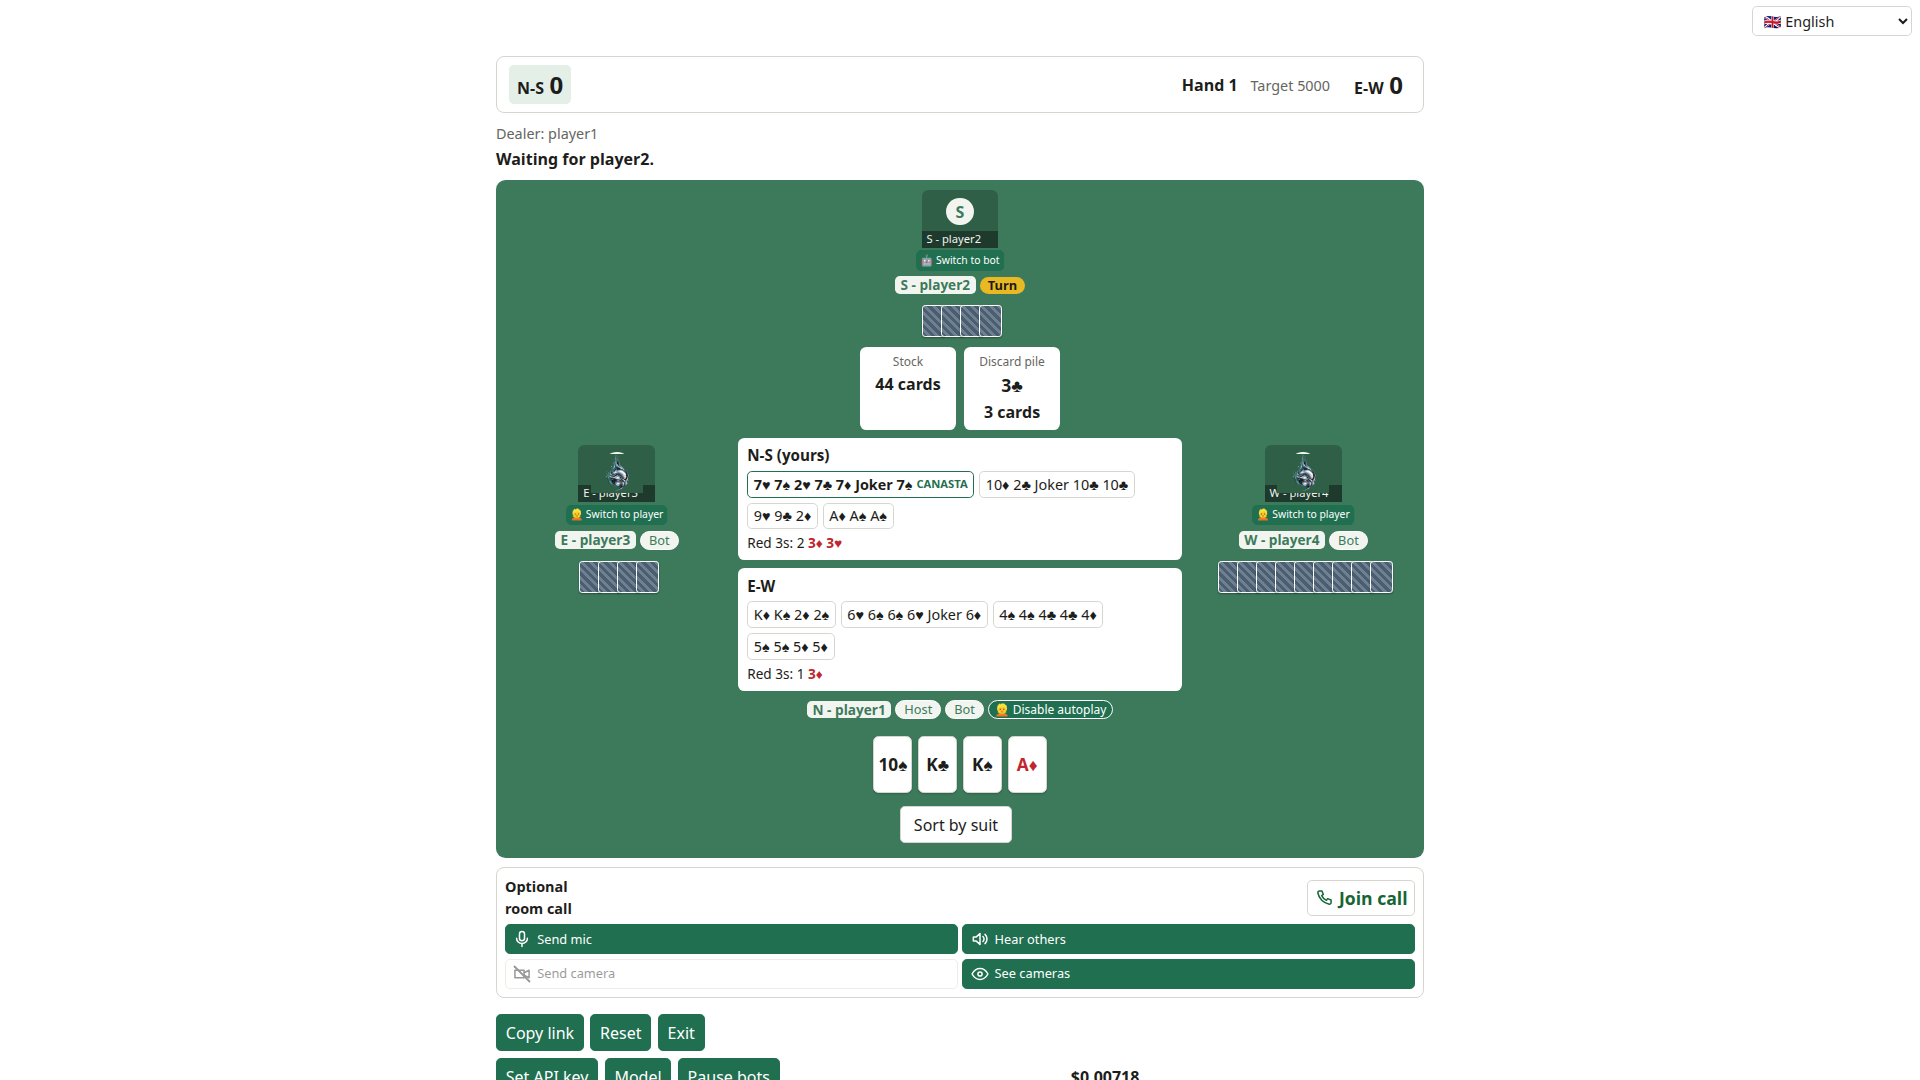
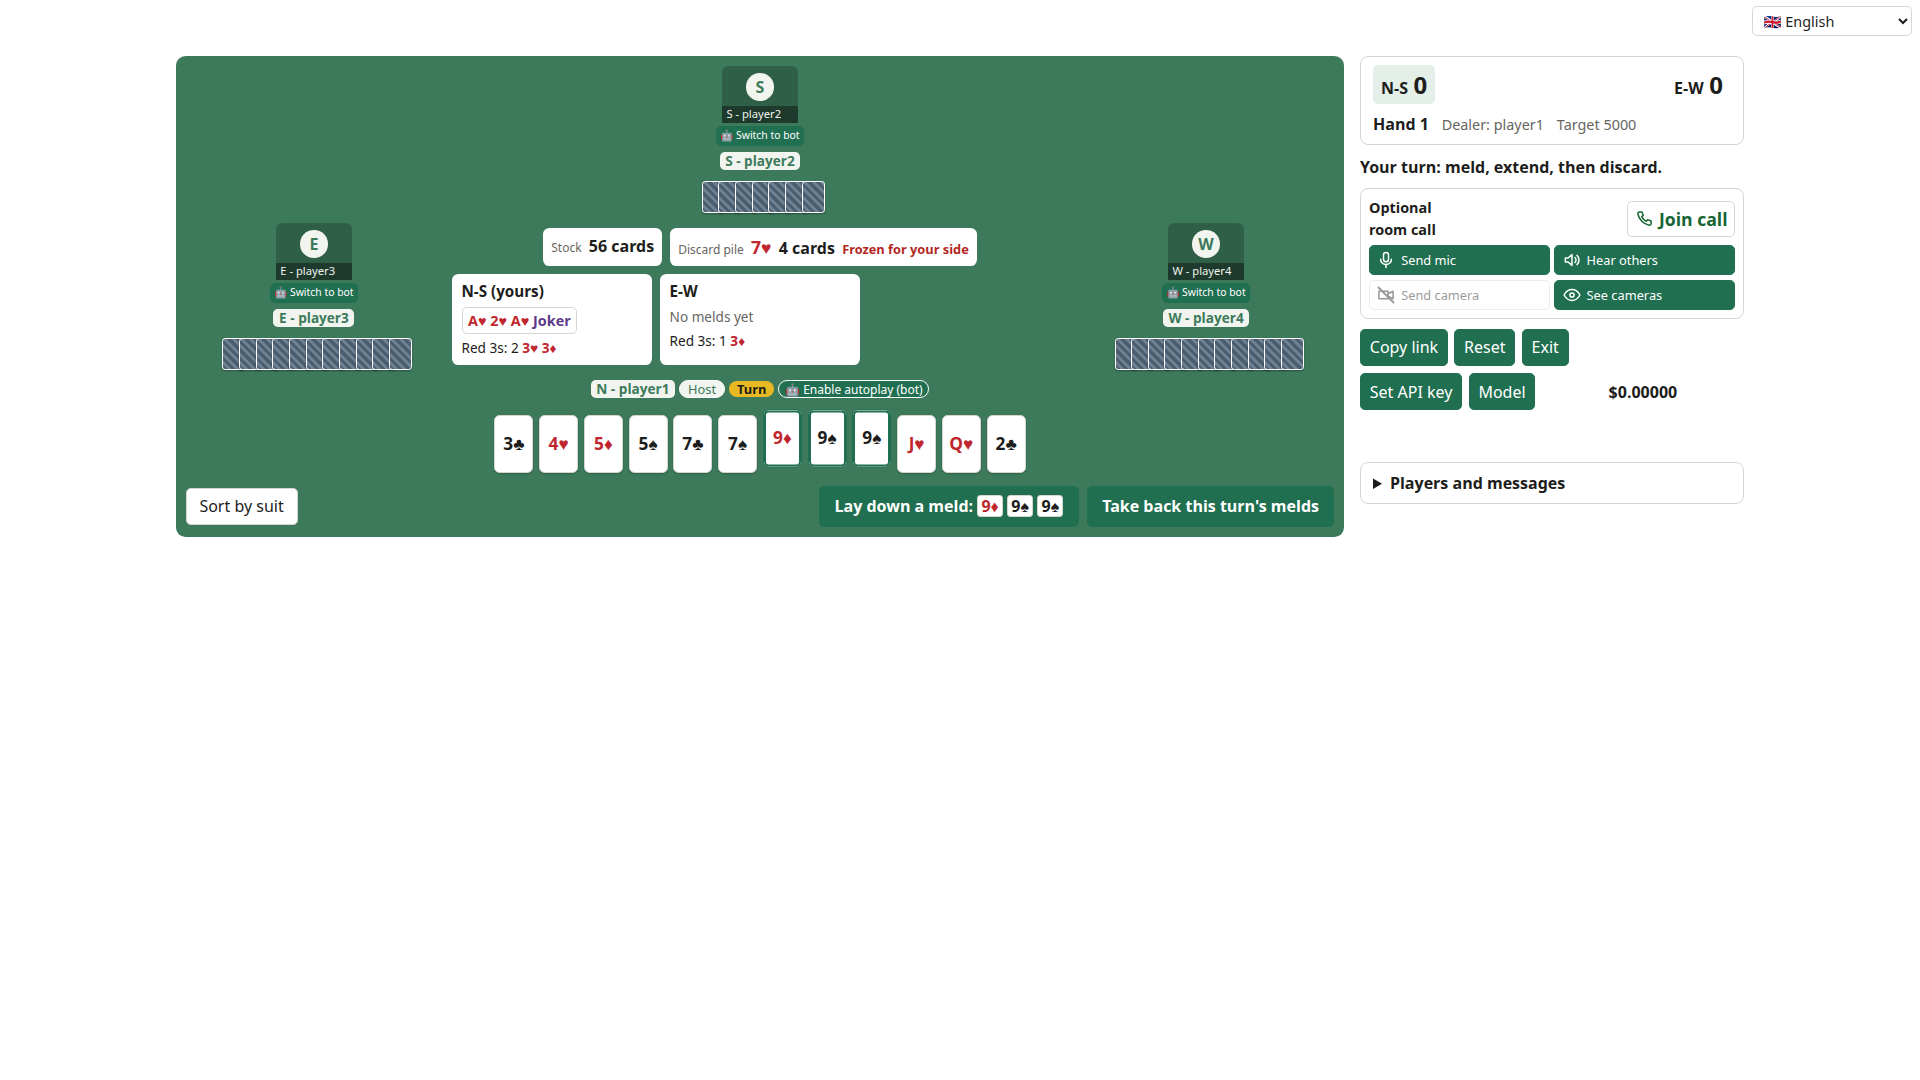
Put the felt on the left and the other table parts on the right on wide screens
On a landscape window of at least 64rem, the room is a two-column grid:
the felt fills the left column, and the score strip, the status, the
call dock, the room controls and the drawer stack on its right. This
matches a 16:9 screen; phones keep the stacked layout. The layout spec
checks both arrangements, and the README screenshot shows the new one.

Claude-Session: https://claude.ai/code/session_01Xuqjshd6CpzxUL2EvtUBke

diff --git a/tests/e2e/layout.spec.ts b/tests/e2e/layout.spec.ts
@@ -188,6 +188,36 @@ async function expectFit(
 	}
 }
 
+/** The parts outside the felt: the scores, the call dock, and the room controls with the drawer. */
+const SIDE_PARTS: Readonly<Record<string, string>> = {
+	scores: '[data-testid="score-strip"]',
+	dock: ".dock",
+	footer: ".room-footer",
+};
+
+/**
+ * On a wide landscape window the parts outside the felt sit in a column to its right, so a 16:9 screen
+ * shows the whole table; on a phone the dock and the footer sit below the felt.
+ */
+async function expectSideParts(
+	page: Page,
+	place: "right" | "below",
+): Promise<void> {
+	const rects = await measure(page, { felt: ".felt", ...SIDE_PARTS });
+	const felt = shown(rects, "felt");
+	if (place === "right") {
+		for (const name of Object.keys(SIDE_PARTS))
+			expect(shown(rects, name).x, `${name} right of the felt`).toBeGreaterThan(
+				right(felt) - SUBPIXEL,
+			);
+		return;
+	}
+	for (const name of ["dock", "footer"])
+		expect(shown(rects, name).y, `${name} below the felt`).toBeGreaterThan(
+			bottom(felt) - SUBPIXEL,
+		);
+}
+
 /** The viewer's own hand and its action buttons. */
 const OWN_PARTS = {
 	"own hand": ".own-hand",
@@ -234,8 +264,10 @@ test("1: desktop, first hand: each of the four viewers sits at the bottom, with 
 	// also on a low laptop window.
 	await expect(tab.E.getByTestId("action-draw")).toBeVisible();
 	await expectFit(tab.E, OWN_PARTS);
+	await expectSideParts(tab.E, "right");
 	await tab.E.setViewportSize(LOW_LAPTOP);
 	await expectFit(tab.E, OWN_PARTS);
+	await expectSideParts(tab.E, "right");
 	await tab.E.setViewportSize({ width: 1280, height: 720 });
 });
 
@@ -255,6 +287,7 @@ test("2: a phone shows the table without sideways scroll, with the own hand and 
 		await test.step(`${size.width}×${size.height}`, async () => {
 			const page = phoneTab as Page;
 			await expectRotation(page, "N");
+			await expectSideParts(page, "below");
 			await page.locator(".own-hand").scrollIntoViewIfNeeded();
 			const view = await page.evaluate(() => ({
 				innerWidth: window.innerWidth,

diff --git a/src/ui/style.css b/src/ui/style.css
@@ -810,7 +810,8 @@ button.call-join[data-in-call="true"] {
 }
 /*
  * Table screen: one column, the table above the footer with the room controls and the drawer.
- * The page has no fixed canvas, so the table works from a 390px phone up.
+ * The page has no fixed canvas, so the table works from a 390px phone up. A wide landscape screen
+ * puts the parts outside the felt in a second column (see the rule at the end of this file).
  */
 
 main[data-screen="table"] > .room {
@@ -1300,6 +1301,54 @@ main[data-screen="table"] > .room {
 
 	.room-control-row {
 		flex-wrap: wrap;
+	}
+}
+
+/*
+ * Wide landscape screen, such as 16:9: the felt fills the left column, and the scores, the status, the call
+ * and the room controls stack in a column on its right. The stage and the table give their children to the
+ * room grid. The side column fills the auto rows in order; the last row takes the rest of the felt's height,
+ * so a short side column does not spread out.
+ */
+@media (min-width: 64rem) and (orientation: landscape) {
+	main:has(> .room) {
+		max-width: 100rem;
+	}
+
+	main[data-screen="table"] > .room {
+		grid-template-columns: minmax(0, 1fr) minmax(18rem, 24rem);
+		grid-template-rows: repeat(12, auto) 1fr;
+		gap: 0 1rem;
+	}
+
+	.room > .stage,
+	.room .canasta-table {
+		display: contents;
+	}
+
+	.room > *,
+	.room > .stage > *,
+	.room .canasta-table > * {
+		grid-column: 2;
+		margin-bottom: 0.6rem;
+	}
+
+	.room .canasta-table > .felt {
+		grid-column: 1;
+		grid-row: 1 / -1;
+		align-self: start;
+		margin-bottom: 0;
+	}
+
+	/* The two scores share the first line of the narrow column; the hand details go below them. */
+	.score-strip .side ~ .side {
+		margin-left: auto;
+	}
+
+	.score-strip .meta {
+		order: 1;
+		flex-basis: 100%;
+		margin-left: 0;
 	}
 }
 

diff --git a/README.md b/README.md
@@ -53,7 +53,7 @@ In each turn, a player does these steps:
 The table offers only legal actions.
 Select cards in your hand to see the melds, extensions, and discards that use them.
 
-![A hand in progress, with the score strip, the stock and the discard pile, both sides' melds, and the player's hand.](docs/images/gameplay-hand.png)
+![A hand in progress: the felt with the stock, the discard pile, both sides' melds and the player's hand on the left, and the score strip, the call and the room controls on the right.](docs/images/gameplay-hand.png)
 
 The main rules, in short:
 
